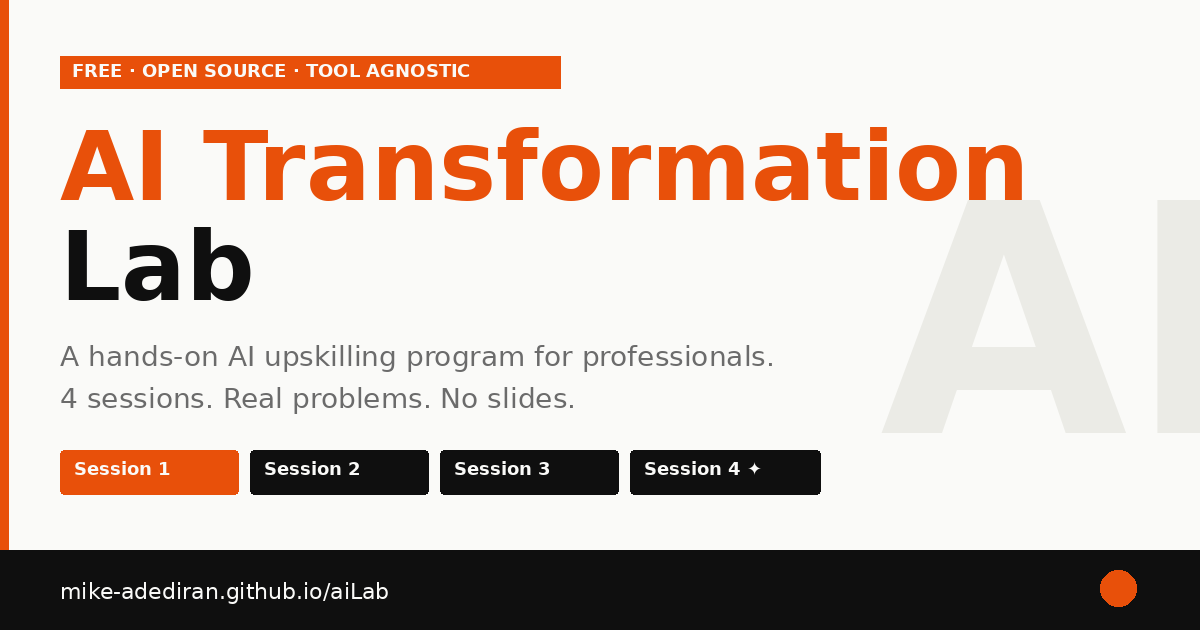
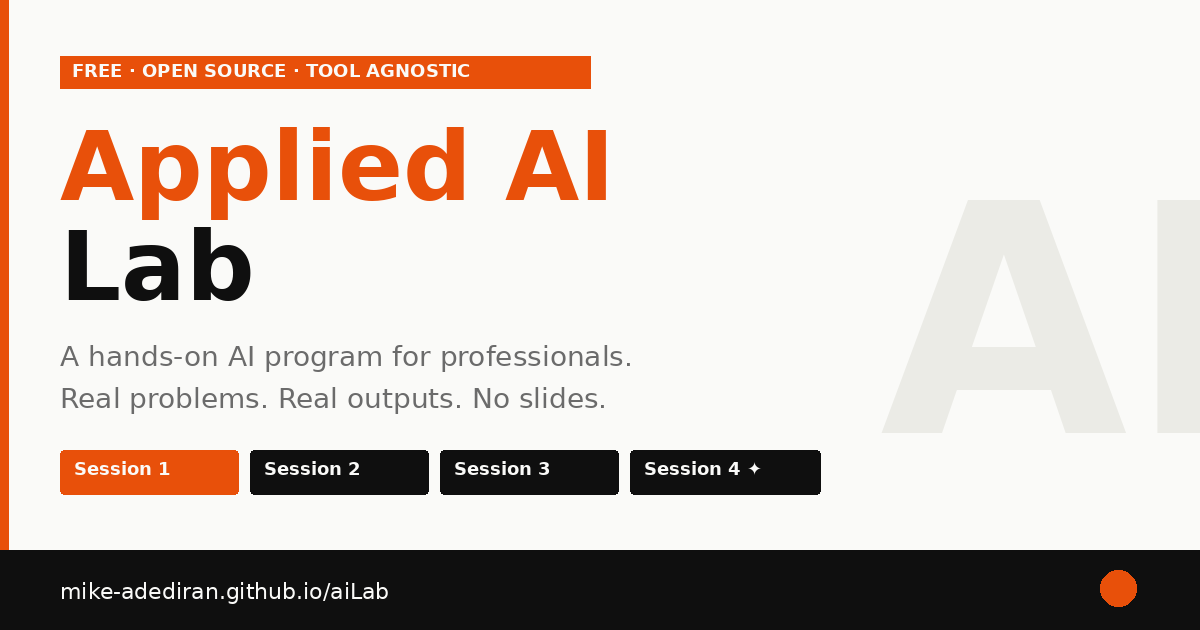
Rebrand: AI Transformation Lab → Applied AI Lab

Changed region(s): [[0.0925, 0.181, 0.8633, 0.3619], [0.0308, 0.5429, 0.6475, 0.6635], [0.4625, 0.0905, 0.4933, 0.1508]]

diff --git a/index.html b/index.html
@@ -3,9 +3,9 @@
 <head>
 <meta charset="UTF-8">
 <meta name="viewport" content="width=device-width, initial-scale=1.0">
-<meta name="description" content="A free, open-source AI upskilling program for professionals. 4 sessions. Real problems. No slides.">
-<meta property="og:title" content="AI Transformation Lab">
-<meta property="og:description" content="A free, open-source AI upskilling program for professionals. 4 sessions. Real problems. No slides. Works in any browser.">
+<meta name="description" content="A free, open-source Applied AI program for professionals. Real problems. Real outputs. Works in any browser.">
+<meta property="og:title" content="Applied AI Lab">
+<meta property="og:description" content="A free, open-source Applied AI program for professionals. Real problems. Real outputs. Works in any browser.">
 <meta property="og:type" content="website">
 <meta property="og:url" content="https://mike-adediran.github.io/aiLab/">
 <meta name="twitter:card" content="summary_large_image">
@@ -13,10 +13,10 @@
 <meta property="og:image:width" content="1200">
 <meta property="og:image:height" content="630">
 <meta name="twitter:image" content="https://mike-adediran.github.io/aiLab/og-image.png">
-<meta name="twitter:title" content="AI Transformation Lab">
-<meta name="twitter:description" content="A free, open-source AI upskilling program. 4 sessions. Real problems. No slides.">
+<meta name="twitter:title" content="Applied AI Lab">
+<meta name="twitter:description" content="A free, open-source Applied AI program. Real problems. Real outputs. No slides.">
 <meta name="theme-color" content="#e8500a">
-<title>AI Transformation Lab</title>
+<title>Applied AI Lab</title>
 <link rel="icon" type="image/x-icon" href="favicon.ico">
 <link rel="icon" type="image/png" sizes="32x32" href="favicon-32x32.png">
 <link rel="icon" type="image/png" sizes="16x16" href="favicon-16x16.png">
@@ -316,7 +316,7 @@ body{font-family:'DM Sans','Arial',sans-serif}
   <div class="lab-header">
     <div>
       <div class="lab-eyebrow">Open-source · Tool-agnostic · Free to share</div>
-      <div class="lab-title">AI <span>Transformation</span> Lab</div>
+      <div class="lab-title">Applied <span>AI</span> Lab</div>
     </div>
     <div class="header-right">
       <div class="session-badge" id="current-badge">Overview</div>
@@ -382,7 +382,7 @@ body{font-family:'DM Sans','Arial',sans-serif}
       <div style="font-size:12px;color:var(--muted);width:100%;margin-top:6px;line-height:1.6;padding-top:6px;border-top:1px solid var(--border);">You will need access to an AI tool — the free tier of ChatGPT, Claude, or Gemini all work. Have 2 real work problems in mind before you begin.</div>
     </div>
     <div class="mobile-hero">
-      <p><strong>Welcome.</strong> A free, hands-on AI upskilling program. 4 sessions. Real problems. No slides. Open on desktop for the full experience — or explore right here.</p>
+      <p><strong>Welcome.</strong> A free, hands-on Applied AI program. 4 sessions. Real problems. Real outputs. Open on desktop for the full experience — or explore right here.</p>
     </div>
     <div class="sess-grid">
       <div class="sess-card curr" data-goto="session1">
@@ -996,7 +996,7 @@ body{font-family:'DM Sans','Arial',sans-serif}
   <!-- CONNECT -->
   <div id="connect" class="section">
     <div class="overline">Support + feedback</div>
-    <h2>Connect with the facilitator</h2>
+    <h2>Connect with the creator</h2>
     <p style="margin-bottom:1.5rem">Questions, ideas to improve the program, or just want to share a win — reach out directly.</p>
     <div class="share-block">
       <div>
@@ -1014,7 +1014,7 @@ body{font-family:'DM Sans','Arial',sans-serif}
       <div class="contact-avatar">MA</div>
       <div>
         <div class="contact-name">Mike Adediran</div>
-        <p style="font-size:13px;color:var(--muted);margin:.2rem 0 .6rem">Strategic operations · AI Transformation · Creator of this program</p>
+        <p style="font-size:13px;color:var(--muted);margin:.2rem 0 .6rem">Applied AI · Strategic operations</p>
         <div class="contact-links">
           <a class="contact-link" href="/cdn-cgi/l/email-protection#412c282a24202524252833202f707001262c20282d6f222e2c"><span class="__cf_email__" data-cfemail="533e3a3836323736373a21323d626213343e323a3f7d303c3e">[email&#160;protected]</span></a>
           <a class="contact-link" href="https://linkedin.com/in/mikeadediran" target="_blank">linkedin.com/in/mikeadediran</a>
@@ -1050,7 +1050,7 @@ body{font-family:'DM Sans','Arial',sans-serif}
     </div>
     <div class="card">
       <h3>About this program</h3>
-      <p>The AI Transformation Lab is free, open-source, and tool-agnostic. Freely available to share, adapt, and build on. If you run this with your own cohort, share how it went.</p>
+      <p>The Applied AI Lab is free, open-source, and tool-agnostic. Freely available to share, adapt, and build on. If you run this with your own cohort, share how it went.</p>
       <div class="tags"><span class="tag">Open source</span><span class="tag">Tool agnostic</span><span class="tag">No install</span><span class="tag">Works offline</span><span class="tag">Free to share</span></div>
     </div>
   </div>
@@ -1323,7 +1323,7 @@ function exportData(){
   var cohort=document.getElementById('cohort-id').value.trim()||'my-cohort';
   var date=new Date().toLocaleDateString('en-GB',{day:'numeric',month:'long',year:'numeric'});
   var lines=[];
-  lines.push('AI TRANSFORMATION LAB — SESSION SUMMARY');
+  lines.push('APPLIED AI LAB — SESSION SUMMARY');
   lines.push('========================================');
   lines.push('Date: '+date);
   if(cohort!=='my-cohort') lines.push('Cohort: '+cohort);
@@ -1402,7 +1402,7 @@ function exportData(){
   }
 
   lines.push('========================================');
-  lines.push('AI Transformation Lab \u2014 mike-adediran.github.io/aiLab');
+  lines.push('Applied AI Lab \u2014 mike-adediran.github.io/aiLab');
 
   var text=lines.join('\n');
   var filename='ai-lab-summary-'+(S.s1&&S.s1.name?S.s1.name.toLowerCase().replace(/\s+/g,'-')+'-':'')+new Date().toISOString().split('T')[0]+'.txt';
@@ -1436,7 +1436,7 @@ function exportData(){
 
 // ── Share ──
 function shareProgram(){
-  var shareData={title:'AI Transformation Lab',text:'A free, open-source AI upskilling program. 4 sessions. Real problems. No slides. Works in any browser.',url:window.location.href};
+  var shareData={title:'Applied AI Lab',text:'A free, open-source Applied AI program. Real problems. Real outputs. Works in any browser.',url:window.location.href};
   if(navigator.share && navigator.canShare && navigator.canShare(shareData)){
     navigator.share(shareData).catch(function(){});
   } else {
@@ -1446,7 +1446,7 @@ function shareProgram(){
 
 // ── Copy feedback ──
 function copyFeedback(){
-  var txt='AI Transformation Lab — Program Feedback\nFrom: '+(v('ext-name')||'Anonymous')+'\n\nWhat worked well:\n'+v('ext-best')+'\n\nWhat to change:\n'+v('ext-change');
+  var txt='Applied AI Lab — Program Feedback\nFrom: '+(v('ext-name')||'Anonymous')+'\n\nWhat worked well:\n'+v('ext-best')+'\n\nWhat to change:\n'+v('ext-change');
   universalCopy(txt,'ext-confirm');
 }
 

diff --git a/README.md b/README.md
@@ -1,8 +1,8 @@
-# AI Transformation Lab
+# Applied AI Lab
 
-A free, open-source, tool-agnostic AI upskilling program for professionals.
+A free, open-source, tool-agnostic Applied AI program for professionals.
 
-**No installation. No server. No cost. Open it in any browser.**
+**Real problems. Real outputs. No slides. Works in any browser.**
 
 → **[Launch the lab](https://mike-adediran.github.io/aiLab/)**
 
@@ -10,7 +10,7 @@ A free, open-source, tool-agnostic AI upskilling program for professionals.
 
 ## What it is
 
-The AI Transformation Lab is a hands-on learning experience designed to help professionals — regardless of technical background — understand AI, apply it to real work problems, and build the habits that make the gains stick.
+The Applied AI Lab is a hands-on program designed to help professionals — regardless of technical background — apply AI to work that actually matters to them, build judgment about when and how to use it, and develop the habits that make the gains stick.
 
 It is not a slide deck. It is not a course. It is a live workspace you open in a browser and work through with real problems you bring from your own job.
 
@@ -35,12 +35,14 @@ The program runs across four sessions. Sessions 1–3 are for everyone. Session 
 
 **Built-in tools:**
 - Prompt lab with RCTFX framework
+- Mini prompt builder within sessions (no tab switching)
 - Wins wall for cohort progress tracking
 - Facilitator notes per session (toggle with "I'm a facilitator")
 - Session timer
-- ROI capture and export
+- ROI capture across six dimensions and plain-text export
 - Presentation mode for wins wall
 - Group and self-paced modes
+- Live prompt preview in Session 4 builder track
 - Works offline after first load
 
 ---
@@ -54,7 +56,7 @@ The program runs across four sessions. Sessions 1–3 are for everyone. Session 
 3. Set the mode to **"Attending a group session"**
 4. Follow each session tab in order — the interface guides the session
 5. Participants log wins to the Wins Wall in real time
-6. At the end, everyone downloads their session data from the Wins Wall
+6. At the end, everyone downloads their session summary from the Wins Wall
 
 **Recommended cadence:** One session per week over three weeks, then an optional fourth session for self-selected builders.
 
@@ -64,7 +66,7 @@ The program runs across four sessions. Sessions 1–3 are for everyone. Session 
 2. Set the mode to **"Learning on my own"**
 3. Work through each session at your own pace
 4. Use the wins journal to track what's working
-5. Download your session data at the end
+5. Download your session summary at the end
 
 ---
 
@@ -102,4 +104,6 @@ MIT — free to use, adapt, and share. Attribution appreciated but not required.
 
 ## Creator
 
-Questions, feedback, or want to share how you used this? Reach out at [mikeadediran11@gmail.com](mailto:mikeadediran11@gmail.com) or connect on [LinkedIn](https://linkedin.com/in/mikeadediran).
+Created by [Mike Adediran](https://linkedin.com/in/mikeadediran).
+
+Questions, feedback, or want to share what you built? Reach out at [mikeadediran11@gmail.com](mailto:mikeadediran11@gmail.com) or connect on [LinkedIn](https://linkedin.com/in/mikeadediran).
